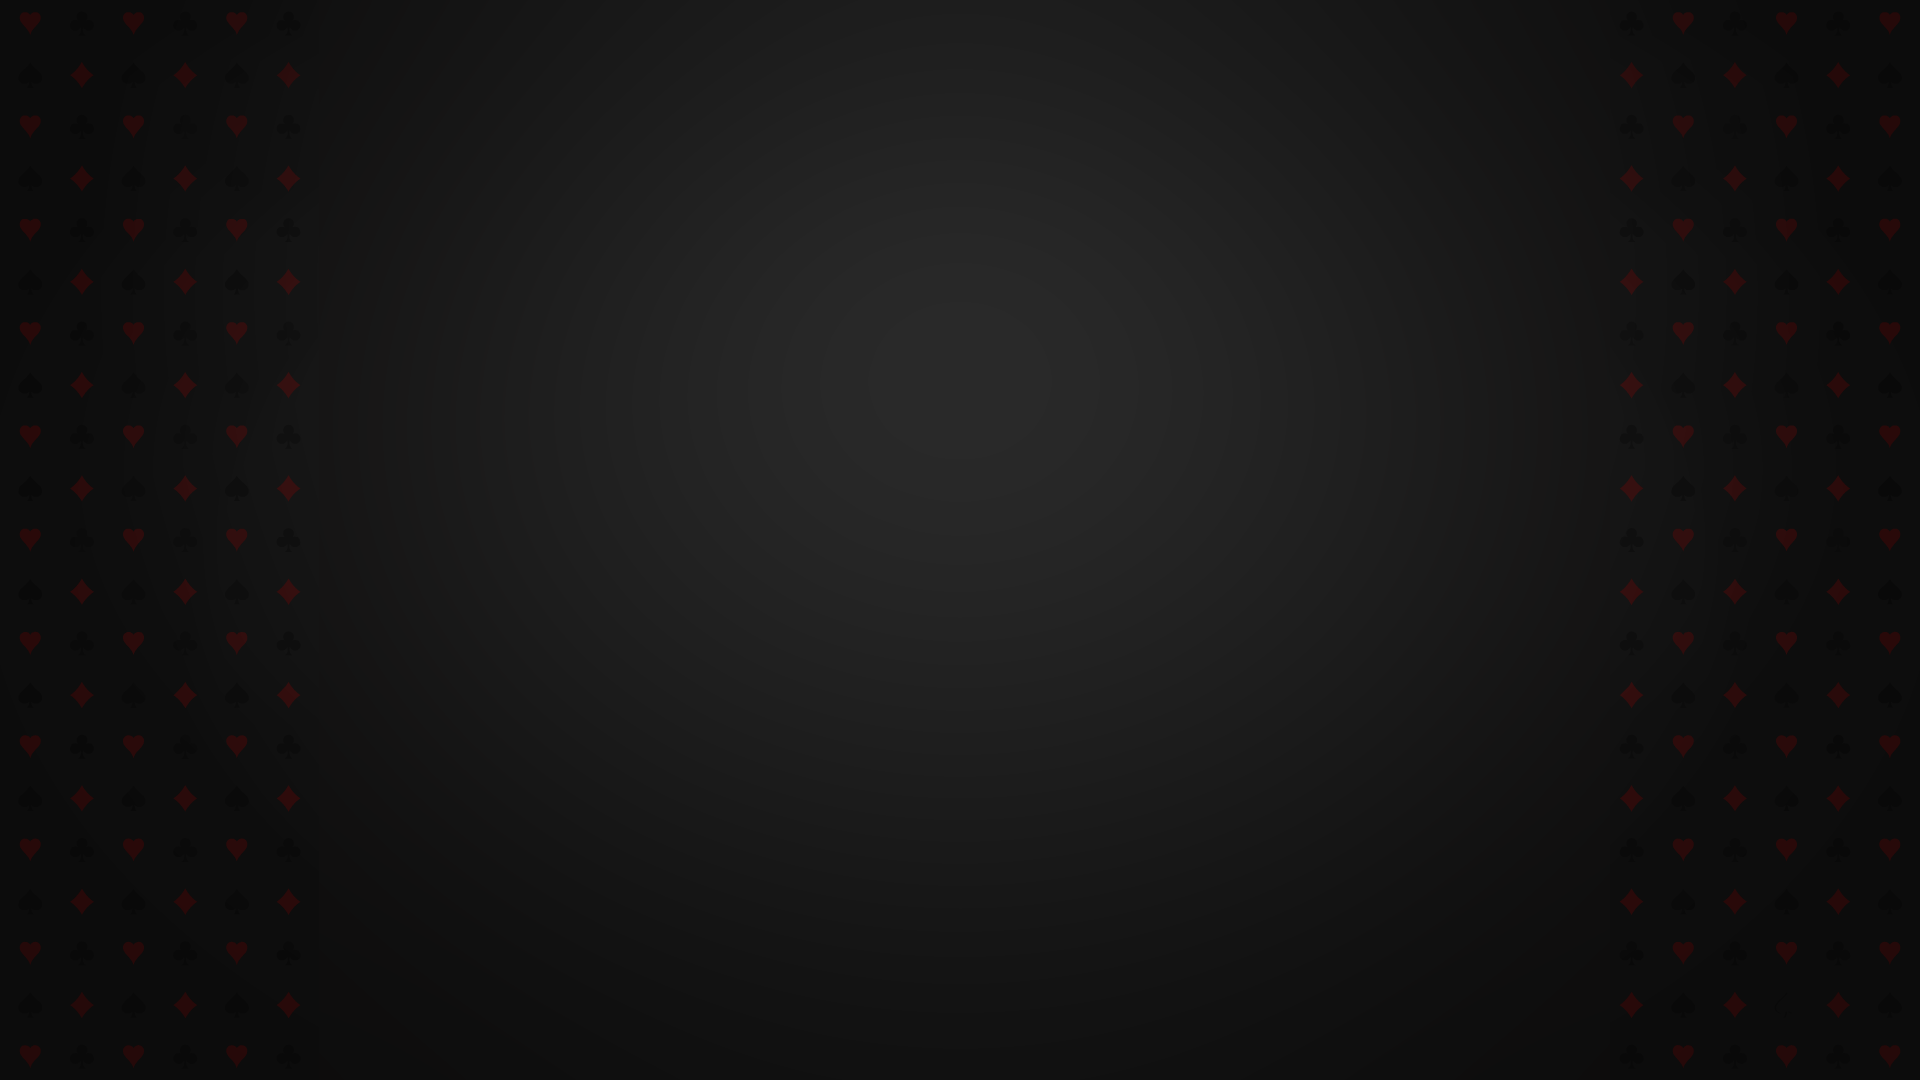
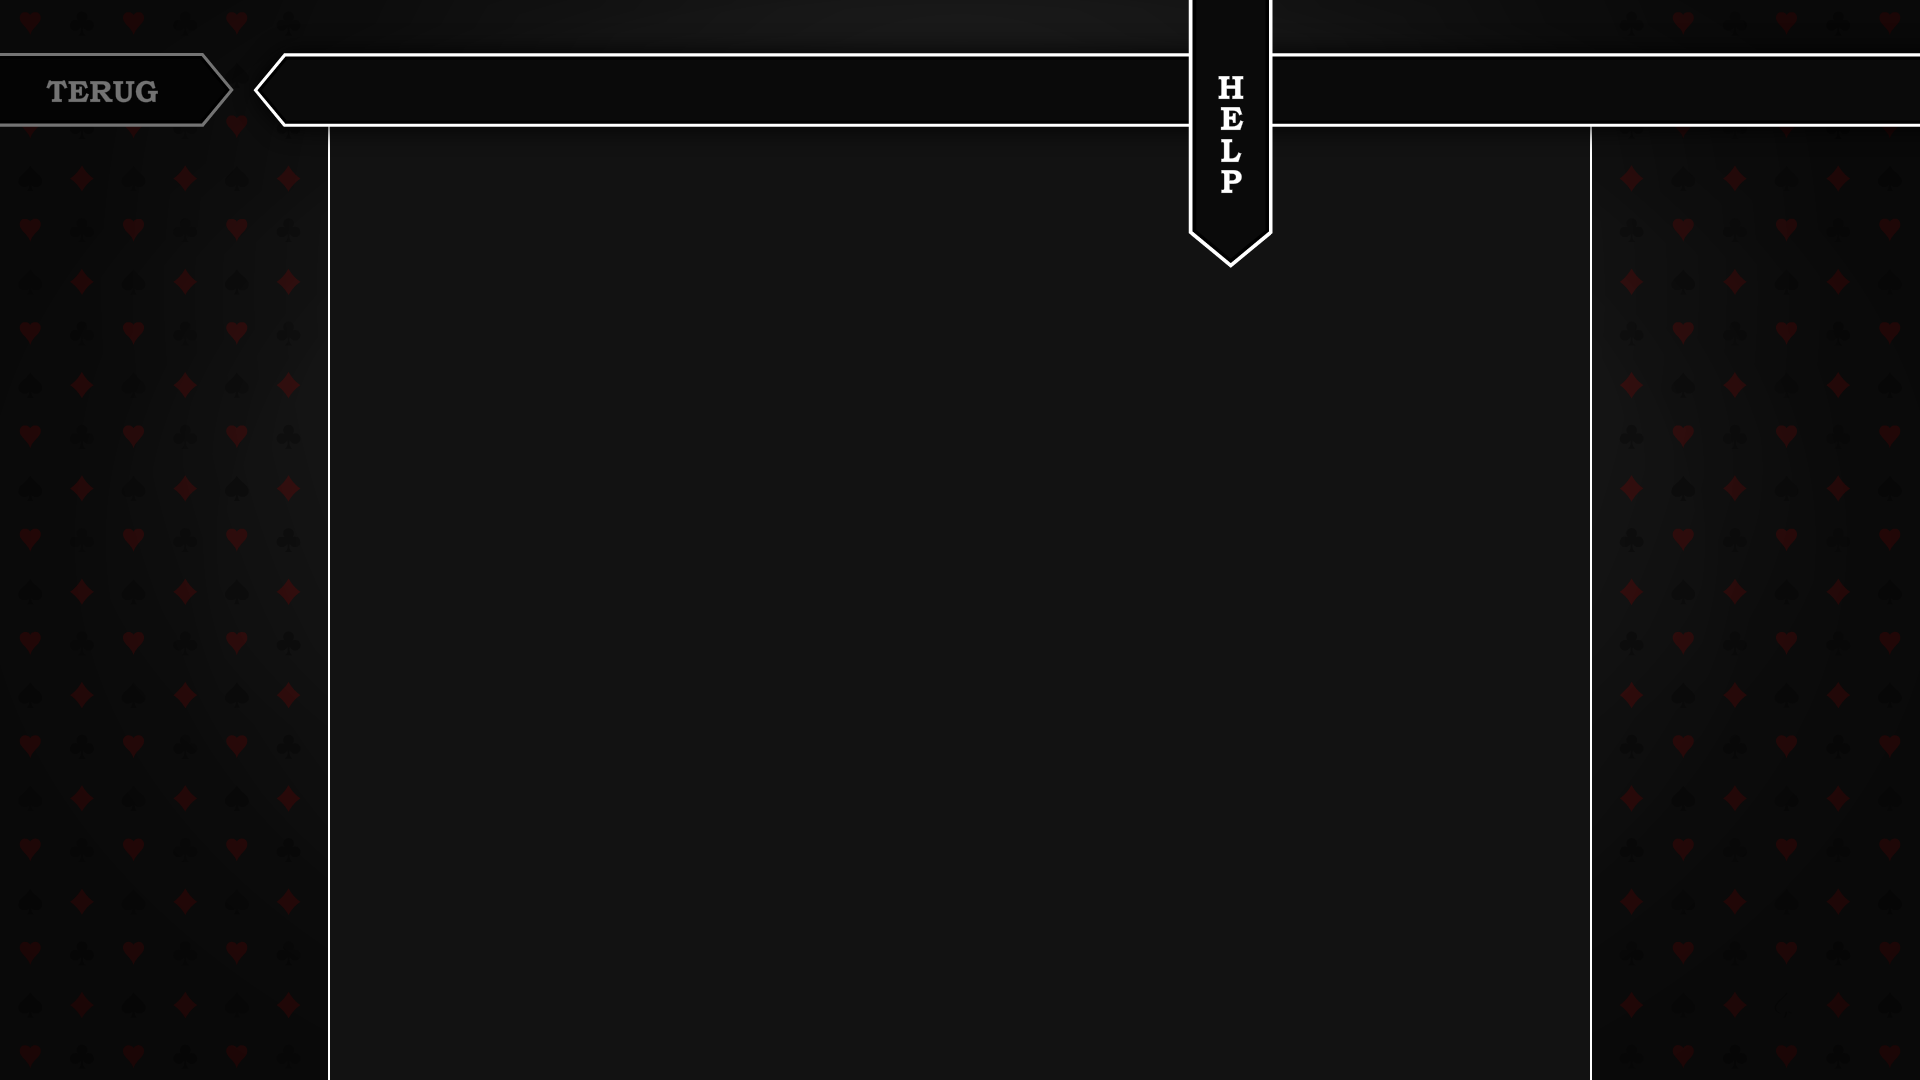
Wat aanpassingen aan plaatjes vanwege snelheidsredenen

Changed region(s): [[0.1562, 0.0, 1.0, 0.2139], [0.0, 0.0611, 0.1562, 0.1222], [0.625, 0.2139, 0.6562, 0.2444]]

diff --git a/Help.cs b/Help.cs
@@ -10,40 +10,40 @@ namespace CyberPesten
 {
     class Help : Form
     {
-        Bitmap buttonsBitmap, terugBitmap;
+        Bitmap terugBitmap;
         float verhouding;
         bool terugHover;
-        Rectangle terugButton;
+        Rectangle terugButton, bounds;
         public Spel spel;
         Form menuBack;
+        string tekst;
 
         public Help(Form form)
         {
             Text = "CyberPesten: Help";
             BackgroundImage = (Image)CyberPesten.Properties.Resources.ResourceManager.GetObject("Help_achtergrond");
-            Size = form.Size;
             FormBorderStyle = FormBorderStyle.None;
             WindowState = FormWindowState.Maximized;
             DoubleBuffered = true;
-            Paint += teken;
             this.Show();
-            buttonsBitmap = new Bitmap((Image)CyberPesten.Properties.Resources.ResourceManager.GetObject("Help_buttons"));
-            verhouding = System.Windows.Forms.Screen.PrimaryScreen.Bounds.Width / buttonsBitmap.Width;
             menuBack = form;
 
             terugBitmap = new Bitmap((Image)CyberPesten.Properties.Resources.ResourceManager.GetObject("Terug_button"));
+            verhouding = System.Windows.Forms.Screen.PrimaryScreen.Bounds.Width / terugBitmap.Width;
             terugButton = new Rectangle(0, (int)(verhouding * 53), (int)(verhouding * 234), (int)(verhouding * 74));
+            bounds = new Rectangle((int)(400 * verhouding), (int)(280 * verhouding), (int)(1120 * verhouding), (int)(600 * verhouding));
 
             this.Paint += this.selected;
+            this.Paint += this.tekenTekst;
             this.MouseMove += this.hover;
             this.MouseClick += this.klik;
         }
 
-        void teken(object sender, PaintEventArgs pea)
+        void tekenTekst(object sender, PaintEventArgs pea)
         {
             // voorlopige tekst, is nog lang niet af
-            /*
-            string tekst = "Cyberpesten is een kaartspel.";
+            
+            tekst = "Cyberpesten is een kaartspel.";
             tekst += "\nDe bedoeling van het spel is om zo snel mogelijk de kaarten in je hand kwijt te raken. Dit kun je doen door op een geldige kaart in je hand te klikken, jouw beurt is dan voorbij en de andere spelers leggen nu hun kaarten op. Iedereen krijgt om en om een beurt, maar pas op voor pestkaarten, deze kunnen gevolgen hebben op jouw spel";
             tekst += "\n\nWat is een geldige zet?";
             tekst += "\nEen kaart van dezelfde soort als de bovenste kaart op de oplegstapel is altijd een geldige kaart, maar je kunt ook het type van de kaarten die gespeeld worden veranderen door een kaart met hetzelfde nummer als de bovenste kaart van speelstapel op de speelstapel te leggen";
@@ -53,15 +53,8 @@ namespace CyberPesten
             tekst += "0 = harten, 1 = klaver, 2 = ruiten, 3 = schoppen (alfabetische volgorde) en 4 = joker (kleurloos)";
             tekst += "0 doet niet mee, 1 is een aas, 2-10 komen overeen met de nummers zelf, 11 boer, 12 vrouw, 13 heer";
 
-            Label label = new Label();
-            label.BackColor = Color.Transparent;
-            label.Text = tekst;
-            label.Font = new Font(FontFamily.GenericSansSerif, 16);
-            label.Size = Size;
-            label.Location = new Point(10, 10);
-            Controls.Add(label);
-            */
-            pea.Graphics.DrawImage(buttonsBitmap, 0, 0, buttonsBitmap.Width * verhouding, buttonsBitmap.Height * verhouding);
+            pea.Graphics.DrawString(tekst, new Font("Arial", 12), new SolidBrush(Color.White), bounds);
+            
         }
 
         private void selected(object sender, PaintEventArgs pea)

diff --git a/Properties/Resources.Designer.cs b/Properties/Resources.Designer.cs
@@ -363,16 +363,6 @@ namespace CyberPesten.Properties {
         /// <summary>
         ///   Looks up a localized resource of type System.Drawing.Bitmap.
         /// </summary>
-        internal static System.Drawing.Bitmap Faded_buttons {
-            get {
-                object obj = ResourceManager.GetObject("Faded_buttons", resourceCulture);
-                return ((System.Drawing.Bitmap)(obj));
-            }
-        }
-        
-        /// <summary>
-        ///   Looks up a localized resource of type System.Drawing.Bitmap.
-        /// </summary>
         internal static System.Drawing.Bitmap Gradient {
             get {
                 object obj = ResourceManager.GetObject("Gradient", resourceCulture);
@@ -516,16 +506,6 @@ namespace CyberPesten.Properties {
         internal static System.Drawing.Bitmap Help_button {
             get {
                 object obj = ResourceManager.GetObject("Help_button", resourceCulture);
-                return ((System.Drawing.Bitmap)(obj));
-            }
-        }
-        
-        /// <summary>
-        ///   Looks up a localized resource of type System.Drawing.Bitmap.
-        /// </summary>
-        internal static System.Drawing.Bitmap Help_buttons {
-            get {
-                object obj = ResourceManager.GetObject("Help_buttons", resourceCulture);
                 return ((System.Drawing.Bitmap)(obj));
             }
         }
@@ -783,9 +763,9 @@ namespace CyberPesten.Properties {
         /// <summary>
         ///   Looks up a localized resource of type System.Drawing.Bitmap.
         /// </summary>
-        internal static System.Drawing.Bitmap Settings_button {
+        internal static System.Drawing.Bitmap Settings_achtergrond {
             get {
-                object obj = ResourceManager.GetObject("Settings_button", resourceCulture);
+                object obj = ResourceManager.GetObject("Settings_achtergrond", resourceCulture);
                 return ((System.Drawing.Bitmap)(obj));
             }
         }
@@ -793,9 +773,9 @@ namespace CyberPesten.Properties {
         /// <summary>
         ///   Looks up a localized resource of type System.Drawing.Bitmap.
         /// </summary>
-        internal static System.Drawing.Bitmap Settings_buttons {
+        internal static System.Drawing.Bitmap Settings_button {
             get {
-                object obj = ResourceManager.GetObject("Settings_buttons", resourceCulture);
+                object obj = ResourceManager.GetObject("Settings_button", resourceCulture);
                 return ((System.Drawing.Bitmap)(obj));
             }
         }

diff --git a/Instellingenscherm.cs b/Instellingenscherm.cs
@@ -15,7 +15,7 @@ namespace CyberPesten
         TextBox regelsUitgeschakeldCon, AIIngeschakeldCon;
         Button mensSpelendCon;
         Menu menu;
-        Bitmap settingsButtons, terugBitmap, standSetBitmap;
+        Bitmap terugBitmap, standSetBitmap;
         bool terugHover, standSetHover;
         Rectangle terugButton, standSetButton;
         float verhouding;
@@ -26,7 +26,7 @@ namespace CyberPesten
             instellingen = menu.instellingen;
 
             Text = "CyberPesten: Help";
-            BackgroundImage = (Image)CyberPesten.Properties.Resources.ResourceManager.GetObject("Menu_achtergrond");
+            BackgroundImage = (Image)CyberPesten.Properties.Resources.ResourceManager.GetObject("Settings_achtergrond");
             ClientSize = menu.Size;
             FormBorderStyle = FormBorderStyle.None;
             WindowState = FormWindowState.Maximized;
@@ -109,16 +109,14 @@ namespace CyberPesten
             update();
             this.Show();
 
-            settingsButtons = new Bitmap((Image)CyberPesten.Properties.Resources.ResourceManager.GetObject("Settings_buttons"));
             terugBitmap = new Bitmap((Image)CyberPesten.Properties.Resources.ResourceManager.GetObject("Terug_button"));
             standSetBitmap = new Bitmap((Image)CyberPesten.Properties.Resources.ResourceManager.GetObject("StandSet_button"));
 
-            verhouding = System.Windows.Forms.Screen.PrimaryScreen.Bounds.Width / settingsButtons.Width;
+            verhouding = System.Windows.Forms.Screen.PrimaryScreen.Bounds.Width / terugBitmap.Width;
 
             terugButton = new Rectangle(0, (int)(verhouding * 53), (int)(verhouding * 234), (int)(verhouding * 74));
             standSetButton = new Rectangle(0, (int)(verhouding * 927), (int)(verhouding * 1230), (int)(verhouding * 74));
 
-            this.Paint += this.buildSettings;
             this.Paint += this.selected;
             this.MouseMove += this.hover;
             this.MouseClick += this.klik;
@@ -208,11 +206,6 @@ namespace CyberPesten
             {
                 mensSpelendCon.Text = "Uit";
             }
-        }
-
-        void buildSettings(object sender, PaintEventArgs pea)
-        {
-            pea.Graphics.DrawImage(settingsButtons, 0, 0, settingsButtons.Width * verhouding, settingsButtons.Height * verhouding);
         }
 
         private void selected(object sender, PaintEventArgs pea)

diff --git a/Menu.cs b/Menu.cs
@@ -14,7 +14,7 @@ namespace CyberPesten
         bool onlineHover, lokaalHover, settingsHover, helpHover, exitHover;
         public Instellingen instellingen;
         float verhouding; //De grootte van de plaatjes worden allemaal gebaseerd op de verhoudingen van de achtergrond
-        Bitmap online, lokaal, settings, help, exit, fadedButtons, menuLogo;
+        Bitmap online, lokaal, settings, help, exit, menuLogo;
         Rectangle onlineButton, lokaalButton, settingsButton, helpButton, exitButton;
         
         public Menu()
@@ -43,7 +43,6 @@ namespace CyberPesten
             settings = new Bitmap((Image)CyberPesten.Properties.Resources.ResourceManager.GetObject("Settings"));
             help = new Bitmap((Image)CyberPesten.Properties.Resources.ResourceManager.GetObject("Help"));
             exit = new Bitmap((Image)CyberPesten.Properties.Resources.ResourceManager.GetObject("Exit_button"));
-            fadedButtons = new Bitmap((Image)CyberPesten.Properties.Resources.ResourceManager.GetObject("Faded_buttons"));
             menuLogo = new Bitmap((Image)CyberPesten.Properties.Resources.ResourceManager.GetObject("Menu_logo"));
 
             int rectangleWidth = (int)(85 * verhouding);
@@ -66,11 +65,8 @@ namespace CyberPesten
 
         void teken(object sender, PaintEventArgs pea)
         {
-            //buildMenuGraphics
-            buttonWidth = (int)(fadedButtons.Width * verhouding);
-            buttonHeight = (int)(fadedButtons.Height * verhouding);
-
-            pea.Graphics.DrawImage(fadedButtons, 0, 0, fadedButtons.Width * verhouding, fadedButtons.Height * verhouding);
+            buttonWidth = (int)(online.Width * verhouding);
+            buttonHeight = (int)(online.Height * verhouding);
 
             //selected
             if (onlineHover)
